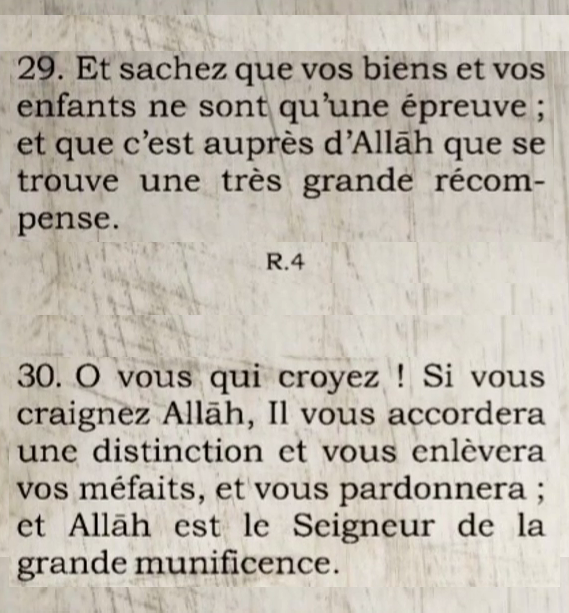
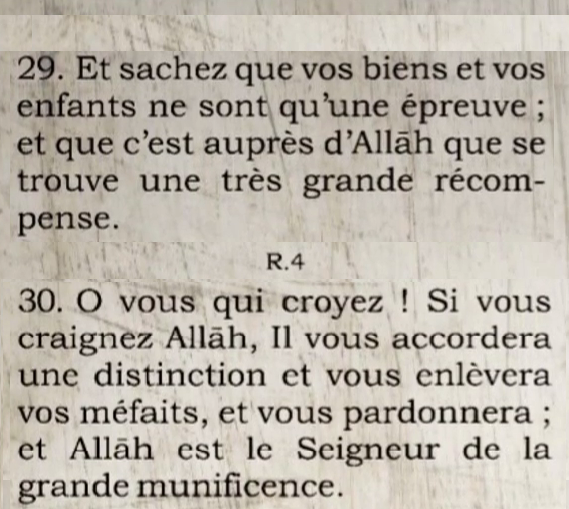
Contenu:s8/...v45

diff --git a/s8_c.html b/s8_c.html
@@ -48,9 +48,15 @@
 	   background-image: url("img/s8/background8.png") ;
 	   padding:1em;/* 2em 1em */
 	   margin:0; /* 0.5em 0 0 0 */
-	   font-size:1.2em;
-	   
+	   font-size:1.2em;	   
 	   box-shadow:0 8px 6px -6px ;
+	}
+	/* Separateur */
+	.Ri{
+	    margin-left:40% !important;
+		padding:.5em !important;
+		width:50px;
+		font-size:1.2em;		
 	}
 	
 
@@ -161,7 +167,7 @@
 					MGU hazi fagna ha wuzade wo m'trulizani roho. Ko m'sada ka tsi ndo wa MGU. Ye mwendza vuwu<i>[MSHINDZI]</i> na ankili&#9322;
                 </p>
 				
-				<p style="margin-top:1em; margin-left:40% ; padding:.5em !important; width:50px; font-size:1.2em; ">
+				<p style="margin-top:1em;" class="Ri">
 				    R.2
 				</p>
 				
@@ -205,7 +211,7 @@
 				   </sup>.
 				  Keri m'rentsi. Mwe rema retso rema. Na mke wendji hata mundre nkdro, MGU ngene ma silamu&#9331;
                 </p>
-				<p style="margin-top:1em; margin-left:40% ; padding:.5em !important; width:50px; font-size:1.2em; ">
+				<p style="margin-top:1em;" class="Ri">
 				    R.3
 				</p>
 				<p style="margin-top:1em; padding:2em 1em;">
@@ -215,17 +221,17 @@
 				 Mtsike djo wambo: "Ngari shiyawo", no kwatsu yishiya(22)			
 				</p>
 				<p style="margin-top:.5em; padding:2em 1em;">
-				 Howusoni moi MGU ko ziyi dje zendza muwo zitso hwishiya, zitso hurongowa, zitso hwelewa(23)			
+				 Howusoni moi MGU ko wayi djo wendza moyo watso hwishiya, watso hurongowa, watso hwelewa(23)			
 				</p>
-				<p style="margin-top:.5em; padding:2em 1em;">
-				 Enge MGU haziwono na ba heri, hadjo zinka mwishyo. Zinu beshoi hasinka mashishyo, zitso djo mba dingo(24)			
+				<p style="margin-top:.5em; padding:1.5em 1em;">
+				 Enge MGU hawawono na ba heri, hadjo wanka mwishyo. Wanu beshoi hawanika mashishyo, watso djo mba dingo(24)			
 				</p>
-				<p style="margin-top:.5em; padding:3.2em 1em;">
+				<p style="margin-top:.5em; padding:3em 1em;">
 			     He masilamwé! Na mdjibu MGU na Mtrume we mparani harmwe zidjo hu 
 				 mhyshani<sup class="popup" onclick="commentaire8()">
 				        8<span class="popuptext" id="myPopup8">حياة طيّبة<br> Mayesha mema hunu duniani na ahira</span>    
 				   </sup>.<br>
-                 Mdjuwe ka MWIGINI YEZI MGU yehuwona bayna ya moinadamu ne nya hahe. No wusoni moi MGU ndo mdjo hu redjeyi(25)			
+                 Mdjuwe ka MWIGINI YEZI MGU yehuziya bayna ya mdru nizo muwo wandzawo<i><small>[yzo moinadamu yandzawo tsindizo MGU yandzawo]</small></i>.<br> No wusoni moi MGU ndo mdjo hu redjeyi(25)			
 				</p>
 				<p style="margin-top:.5em; padding:2em 1em;">
 				 Namriye ze mbuda zitso hutsunguwe 
@@ -237,12 +243,92 @@
 				<p style="margin-top:.5em; padding:5em 1em;">
 				 Na mweshelo wakati moitsuka hindru pvo ntsi. Na hofu ya matreka. Ha mhafadwini, ha mtrani vuwu ho msaanda wahahe. Ha mnikani na masterehi mdjoi hu shukuriya(27)			
 				</p>
-				<p style="margin-top:.5em; padding:2em 1em;">
+				<p style="margin-top:.5em; padding:2.5em 1em;">
 				    He gnimoi amini ! mtsi hini MGU na Mtrume. 				
 				    Ngamhiniwu ha kusudi<sup class="popup" onclick="commentaire10()">
-				        10<span class="popuptext" id="myPopup10">??? a trahi le prophète pendant le siège contre le tribut juif des bani ???</span>    
+				        10<span class="popuptext" id="myPopup10">Abu duba'ba a trahi le prophète pendant le siège(<i><small>25jours</small></i>) contre le tribut juif des bani kuraïdhoi</span>    
 				    </sup>,
 				    wowu aminifu moinikiwa(28)			
+				</p>
+				<p style="margin-top:.5em; padding:1.2em 1em;">
+				 Mdjuwe ke mali no wana, wuwo mtihani. She kweli ya mavuna, ndo sonimoi MGU(29)			
+				</p>
+				<p class="Ri" style="margin-top:.5em ;">
+				    R.4
+				</p>
+				<p style="margin-top:.5em; padding:2em 1em;">
+				 Hégni mwa amini! mwera MGU, ngudjo mvukishani[<i><small>ngudo mdjuzani zembi neze ndjema</small></i>] .Ngudjo mzimiyane madhambi ya msamihini. MWI YEZI MGU nde mlipva ndro(30)			
+				</p>
+				<p style="margin-top:.5em; padding:3.3em 1em;">
+				 Yema kafiri wapanga wahufunge, hawu wahuwe,  hawu wahutowe sistani. Wa hudumu, sha MGU pvahe ha hudumu. Ne MWIGNI YEZI MGU nde mdjizi wa mpango(31)			
+				</p>
+				<p style="margin-top:.5em; padding:3.3em 1em;">
+				 Wesomewe kur'ani ngoimbo:" Risa ri yishia. Ridjodjwa hutowa 
+				 djizo<sup class="popup" onclick="commentaire11()">
+				        11<span class="popuptext" id="myPopup11">??? importait des revues de ???. Sur ce, il pretendait pouvoir produire un texte semblable au Coran </span>    
+				    </sup>.
+				 Yizo hala halele"(32)			
+				</p>
+				<p style="margin-top:.5em; padding:3.3em 1em;">
+				 Watoreya:" He MWIGI YEZI MGU ! Rereye mvuwa ya magaya, hawu baya languina, riwone ka Mhamadi ngoibo kweli"(33)			
+				</p>
+				<p style="margin-top:.5em; padding:2.4em 1em;">
+				 Sha MGU kadjadjo warema baya, nawe ngawe yapvo. Kadjadjo rema, nawo ngoi tsaho msamaha(34)			
+				</p>
+				<p style="margin-top:.5em; padding:4em 1em;">
+				 Ye lewo mana MGU yatsodjo warema mbuda hindri? wabaye Al-kaanba nawo tsidne magardiye. Yema dhoimana waho msihiri, nde mara MGU, sho wendji koitsu djuwa(35)			
+				</p>
+				<p style="margin-top:.5em; padding:3em 1em;">
+				 Ho msirini, ngoi tsingo hu fuzia no rema ma sambi. Hari yiyo swala! "Namrengue lebaya ho wukafiri wa hagnu"(36)			
+				</p>
+				<p style="margin-top:.5em; padding:4em 1em;">
+				 Yema kafiri ngoi rumo mali no wamigne dini ya MGU. Ngoidjo hurumiya zemali, sho mwiso hasara na madjitso. Yemakafiri ngoidjo hu tsangagniwa mroni.(37)			
+				</p>
+				<p style="margin-top:.5em; padding:4em 1em;">
+				 Yili MGU yadjoi hu tenguwo wayi no wema. Ngudjo wundagno wayi ya wavurize mdroni. Wanu ndo wale hasara(38)			
+				</p>
+				<p class="Ri" style="margin-top:.5em;">
+				    R.5
+				</p>
+				<p style="margin-top:.5em; padding:4em 1em;">
+				  Wambiye makafiri yawo. Werantsi ngaridjo samihe zapvira. Wezidi ngaridjo warema djema djadi yapvira(39)			
+				</p>
+				<p style="margin-top:.5em; padding:2.8em 1em;">
+				  Nam'wane nawo hata warentsi hoshiriki. Mpaka yedini ndohu salimu MGU basi.
+				  Werantsi MWIGNI YEZI MGU ngu wono yizo wa rendawo(40)			
+				</p>
+				<p style="margin-top:.5em; padding:2.8em 1em;">
+                     Weharaye amani. kotabu. MGU nge yena gni. Yeka ngome ndaye! Yeka msaanda ndaye!(41)			
+				</p>
+				<p class="Ri" style="margin:.5em 7em !important; width:34%;">
+				    Dixième Partie
+				</p>
+				<p style="margin-top:.5em; padding:6em 1em;">
+                     Lefunvu latsanu lahe ghanima; yilo la MGU na Mtrume, no wanduzagnu, ne mayatima, ne mafukara, no wadjeni.
+					 Namoignise haliyo, eka m'amini yzo rapvesha Mtrume[<i><small>djeshi la malaïka</small></i>] yentsu moika hurambulana, yentsu moi hondrana ne makafiri.
+					 MWIGNI YEZI MGU yehufagna yni ya ndzao!(42)			
+				</p>
+				<p style="margin-top:.5em; padding:7.7em 1em;">
+                    Yesa moiko mlimani. 
+					Gni mko wupande wasa n'lo bandza[<i><small>shiwandza shahe kondo</small></i>], wo wako dingoni.
+					Ye "caravane" iko ntsini<sup class="popup" onclick="commentaire12()">
+				        12<span class="popuptext" id="myPopup12">Les muslmans sont sur un versant de la montagne de Badr. Les kuraïsh sur  le versant opposé, et la caravane à 25km  plus bas(sur le littoral de la mer rouge) </span>    
+				    </sup>. 
+					Kamdjadjo paro ishilyane lera yahe kondo.
+					Sha MGU haykaza waye,yli yeza wumboi zirendehe.
+					Eyangamiya yangamiye hamana, eyavuka yavuke hamana.
+					MWIGNI YEZI MGU yehu ishya piya, yehu djuwa piya(43)			
+				</p>
+				
+	
+				<p style="margin-top:.5em; padding:7em 1em;">
+				   Hotabirini MGU hahonesa washashi. Yengue hahonesa ka ngoiwo wendji mdjo puha ze vuwu. Mdjo vurana. Ndemana MGU ya zangusa. Hoka ngu djuwo ye zilo morohoni (44)			
+				</p>
+				<p style="margin-top:.5em; padding:4.4em 1em;">
+				  Ho nkodoni mka hu wawona washashi.Waka hu monani washashi.Yili yeza wumboi zi rendehe. Mana yende wu katro shawiri(45)			
+				</p>
+				<p class="Ri" style="margin-top:1em ;">
+				    R.6
 				</p>
 			</div>
 		</div><!-- #colone-laterale -->
@@ -266,6 +352,17 @@
                  <img src="img/s8/a26.png" class="onglet1-sujet no-border" />
                  <img src="img/s8/a28.png" class="onglet1-sujet no-border" style="min-height:auto;" />				 
 			     <img src="img/s8/a29.png" class="onglet1-sujet no-border" />
+				 <img src="img/s8/a32.png" class="onglet1-sujet no-border" />
+				 <img src="img/s8/a34.png" class="onglet1-sujet no-border" />
+				 <img src="img/s8/a36.png" class="onglet1-sujet no-border" />
+				 <img src="img/s8/a38.png" class="onglet1-sujet no-border" />
+				 <img src="img/s8/a39.png" class="onglet1-sujet no-border" />
+				 <img src="img/s8/a41.png" class="onglet1-sujet no-border" />
+				 <img src="img/s8/a42.png" class="onglet1-sujet no-border" />
+				 <img src="img/s8/a43.1.png" class="onglet1-sujet no-border"/>
+				 <img src="img/s8/a43.2.png" class="onglet1-sujet no-border" style="min-height:auto;"/>
+				 <img src="img/s8/a44.png" class="onglet1-sujet no-border" />
+				 <img src="img/s8/a45.png" class="onglet1-sujet no-border" />
 			</div>
 								
 		</div><!-- #colone-contenu -->

diff --git a/s8.html b/s8.html
@@ -102,7 +102,25 @@
                <img src="img/s8/f24.png" class="onglet1-sujet no-border" /> 
                <img src="img/s8/f26.png" class="onglet1-sujet no-border" /> 
                <img src="img/s8/f28.png" class="onglet1-sujet no-border" style="min-height:auto;" />   			   
-			   <img src="img/s8/f29.png" class="onglet1-sujet no-border" /> 
+			   <img src="img/s8/f29.png" class="onglet1-sujet no-border" />
+               <img src="img/s8/f32.png" class="onglet1-sujet no-border" /> 
+               <img src="img/s8/f34.png" class="onglet1-sujet no-border" /> 
+               <img src="img/s8/f36.png" class="onglet1-sujet no-border" />
+               <img src="img/s8/f38.png" class="onglet1-sujet no-border" /> 
+               <img src="img/s8/f39.png" class="onglet1-sujet no-border" /> 
+               <img src="img/s8/f41.png" class="onglet1-sujet no-border" />
+               <img src="img/s8/f42.png" class="onglet1-sujet no-border" /> 
+               <img src="img/s8/f43.1.png" class="onglet1-sujet no-border"/>
+               <img src="img/s8/f43.2.png" class="onglet1-sujet no-border"/>
+               <img src="img/s8/f44.png" class="onglet1-sujet no-border" /> 
+               <img src="img/s8/f45.png" class="onglet1-sujet no-border" />
+               <img src="img/s8/f46.png" class="onglet1-sujet no-border" style="min-height:auto;"/>	
+               <img src="img/s8/f48.png" class="onglet1-sujet no-border" />
+               <img src="img/s8/f49.png" class="onglet1-sujet no-border" />
+               <img src="img/s8/f51.png" class="onglet1-sujet no-border" />
+               <img src="img/s8/f54.png" class="onglet1-sujet no-border" />
+               <img src="img/s8/f57.png" class="onglet1-sujet no-border" />
+               <img src="img/s8/f59.png" class="onglet1-sujet no-border" />			   
 			</div>
 		</div><!-- #colone-laterale -->
 		
@@ -125,6 +143,24 @@
                  <img src="img/s8/a26.png" class="onglet1-sujet no-border" />
                  <img src="img/s8/a28.png" class="onglet1-sujet no-border" style="min-height:auto;" />				 
 			     <img src="img/s8/a29.png" class="onglet1-sujet no-border" />
+				 <img src="img/s8/a32.png" class="onglet1-sujet no-border" />
+				 <img src="img/s8/a34.png" class="onglet1-sujet no-border" />
+				 <img src="img/s8/a36.png" class="onglet1-sujet no-border" />
+				 <img src="img/s8/a38.png" class="onglet1-sujet no-border" />
+				 <img src="img/s8/a39.png" class="onglet1-sujet no-border" />
+				 <img src="img/s8/a41.png" class="onglet1-sujet no-border" />
+				 <img src="img/s8/a42.png" class="onglet1-sujet no-border" />
+				 <img src="img/s8/a43.1.png" class="onglet1-sujet no-border"/>
+				 <img src="img/s8/a43.2.png" class="onglet1-sujet no-border" style="min-height:auto;" />
+				 <img src="img/s8/a44.png" class="onglet1-sujet no-border" />
+				 <img src="img/s8/a45.png" class="onglet1-sujet no-border" />
+				 <img src="img/s8/a46.png" class="onglet1-sujet no-border" style="min-height:auto;" />
+				 <img src="img/s8/a48.png" class="onglet1-sujet no-border" />
+				 <img src="img/s8/a49.png" class="onglet1-sujet no-border" />
+				 <img src="img/s8/a51.png" class="onglet1-sujet no-border" />
+				 <img src="img/s8/a54.png" class="onglet1-sujet no-border" />
+				 <img src="img/s8/a57.png" class="onglet1-sujet no-border" />
+				 <img src="img/s8/a59.png" class="onglet1-sujet no-border" />
 			</div>
 								
 		</div><!-- #colone-contenu -->
